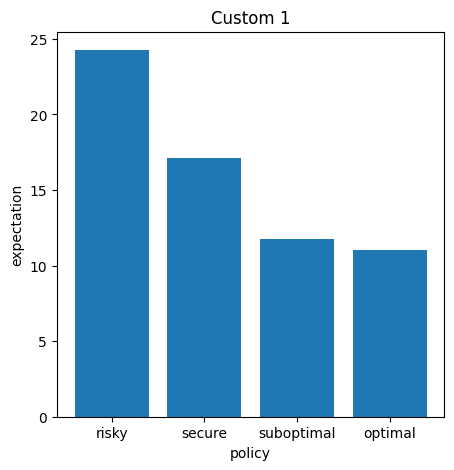
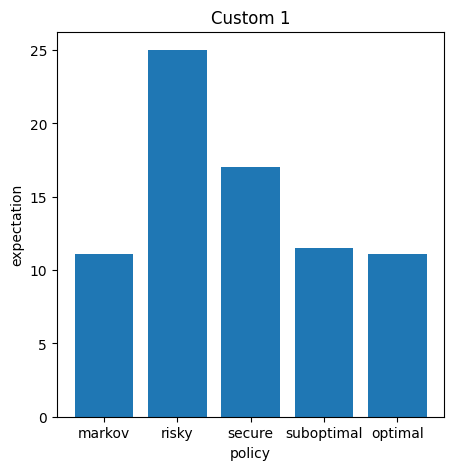
added plotting for empirical vs theoretical + created empirical mean for each state (not just initial state)

diff --git a/testbench.py b/testbench.py
@@ -14,7 +14,7 @@ from layouts import *
 #   2 for max verbose
 verbose = 1
 # number of iterations for empirical tests
-nb_iterations = 1e3
+nb_iterations = 1e5
 # filename to write results
 filename = "results.txt"
 # open file in write mode
@@ -35,7 +35,7 @@ def test_markov(layout, circle=False, name="markov", write_file=True) :
         print(f"    layout      : {' '.join(map(str, layout))}", file=f)
         print(f"    circle      : {circle}", file=f)
         print(f"    dice        : {' '.join(map(str, dice))}", file=f)
-        print(f"    expectation : {markov_exp[0]:>7.4f}", file=f)
+        print(f"    expectation : {' '.join(map(lambda x: format(x, '>7.4f'), markov_exp))}", file=f)
         print("", file=f)
 
     return markov_exp, dice
@@ -50,8 +50,8 @@ def test_empirical(layout, circle=False, expectation=None, policy=None, name="em
         print(f"    layout      : {' '.join(map(str, layout))}", file=f)
         print(f"    circle      : {circle}", file=f)
         print(f"    iterations  : {int(nb_iterations)}", file=f)
-        print(f"    dice        : {' '.join(map(str, dice))}", file=f)
-        print(f"    expectation : {empiric_exp:>7.4f}", file=f)
+        print(f"    dice        : {' '.join(map(str, dice))}" if dice is not None else "", file=f)
+        print(f"    expectation : {' '.join(map(lambda x: format(x, '>7.4f'), empiric_exp))}", file=f)
         print("", file=f)
 
     return empiric_exp, dice
@@ -62,10 +62,11 @@ def compare_models(layout, circle=False) :
     _, _ = test_empirical(layout, circle, markov_exp, markov_dice)
 
 
-def compare_policies(policies, layout, circle=False) :
+def compare_policies(policies, layout, circle=False, add_pure_random=False) :
     """compare different policies with one another and with the optimal policy"""
-    _, optimal_policy = test_markov(layout, circle, write_file=False)
+    _, optimal_policy = test_markov(layout, circle, write_file=True)
     policies.append(("optimal", optimal_policy))
+    if add_pure_random: policies.append(("pure random", None))
 
     # test for each policy
     for policy in policies:
@@ -79,8 +80,8 @@ def compare_policies(policies, layout, circle=False) :
         empiric_exp, _ = test_empirical(layout, circle, policy=dice, name=name)
         if verbose >= 1 : 
             print(f"\nName : {name}")
-            print(f"    expectation : {empiric_exp:>7.4f}")
-            print(f"    policy : {list(dice)}")
+            print(f"    expectation : {' '.join(map(lambda x: format(x, '>7.4f'), empiric_exp))}")
+            print(f"    policy : {list(dice)}" if dice is not None else f"    policy : pure random")
 
 # -----------------------------------------------------------------------------
 # Main
@@ -89,11 +90,12 @@ def compare_policies(policies, layout, circle=False) :
 if __name__ == '__main__':
     #compare_models(layout_custom2, False)
     #compare_models(layout_custom2, True)
+
     policies = strategies.get_policies(layout_custom1, True)
-    compare_policies(policies, layout_custom1, True)
+    compare_policies(policies, layout_custom1, True, add_pure_random=True)
     
     policies = strategies.get_policies(layout_custom2, True)
-    compare_policies(policies, layout_custom2, True)
+    compare_policies(policies, layout_custom2, True, add_pure_random=True)
 
     f.close()
 

diff --git a/snakes_and_ladders.py b/snakes_and_ladders.py
@@ -366,9 +366,12 @@ def test_markovDecision(layout, circle, name="", verbose=False):
 
 def test_empirically(layout, circle, expectation=None, policy=None, nb_iter=1e7, verbose=False):
     board = Board(layout, circle)
-    nb_rolls = np.zeros(int(nb_iter))
+    nb_rolls = np.zeros((int(nb_iter), len(board.layout)), dtype=float)
+    marked = np.zeros((int(nb_iter), len(board.layout)), dtype=bool)
     states = np.zeros(int(nb_iter), dtype=int)
     not_done = np.ones(int(nb_iter), dtype=bool)
+
+    marked[:, 0] = True
 
     if verbose:
         print(f"Simulating {int(nb_iter)} games with following"
@@ -377,6 +380,8 @@ def test_empirically(layout, circle, expectation=None, policy=None, nb_iter=1e7,
 
     while np.sum(not_done) != 0:
         states_left = states[not_done]
+        marked_left = marked[not_done]
+        nb_rolls_left = nb_rolls[not_done]
 
         dice = policy[states_left] if policy is not None else np.random.randint(SECURITY, RISKY+1, len(states_left))
 
@@ -386,19 +391,24 @@ def test_empirically(layout, circle, expectation=None, policy=None, nb_iter=1e7,
         new_states = board.apply_delta(states_left, nb_steps)
         new_states, extra_costs = board.apply_traps(new_states, trap_trigger)
 
-        nb_rolls[not_done] += 1. + extra_costs
+        nb_rolls_left[marked_left] += np.ones(np.sum(marked_left)) + np.repeat(extra_costs, np.sum(marked_left, axis=1))
+
+        marked_left[np.arange(len(marked_left)), new_states] = True
 
         states[not_done] = new_states
+        nb_rolls[not_done] = nb_rolls_left
+        marked[not_done] = marked_left
         not_done[states == len(board.layout) - 1] = False
-    
-    empiric_result = np.mean(nb_rolls)
+
+    nb_rolls = nb_rolls[:, :-1]
+    empiric_result = np.sum(nb_rolls, axis=0)/np.count_nonzero(nb_rolls, axis=0)
 
     if verbose:
         print( f"Expectation results : " +
               (f"\n   - Optimal (MDP) : {expectation[0]:>7.4f}" if expectation is not None else "") +
                f"\n   - Empiric       : {empiric_result:>7.4f} "
-               f"| σ = {np.std(nb_rolls):>7.4f} "
-               f"| [{np.min(nb_rolls)}, {np.max(nb_rolls)}]"
+               f"| σ = {np.std(nb_rolls[:, 0]):>7.4f} "
+               f"| [{np.min(nb_rolls[:, 0])}, {np.max(nb_rolls[:, 0])}]"
                f"\n")
         
     return empiric_result, policy

diff --git a/plots.py b/plots.py
@@ -49,7 +49,7 @@ with open(filename, 'r') as f :
             results[-1].policy_dice = list(map(int, map(float, line[2:])))
 
         elif line[0] == "expectation" :
-            results[-1].expectation = float(line[-1])
+            results[-1].expectation = list(map(float, line[2:]))
         
 # group by layout
 grouped = []
@@ -82,7 +82,7 @@ for group in grouped :
     expec = []
     for r in group :
         names.append(r.policy_name)
-        expec.append(r.expectation)
+        expec.append(r.expectation[0])
     # create bars
     plt.bar(names, expec)
     # labels and titles
@@ -91,3 +91,26 @@ for group in grouped :
     plt.ylabel("expectation")
     # save figure
     plt.savefig(f"plots/{title.replace(' ','')}", bbox_inches='tight')
+
+    # plotting empiric/theoric graph
+    # get names and expectation
+    plt.figure(figsize=(7, 5))
+    names = []
+    expec = []
+
+    X_axis = np.arange(1, len(r.layout))
+
+    for r in group:
+        if r.policy_name == 'markov':
+            plt.bar(X_axis - 0.2, r.expectation, 0.4, label='Theoretical')
+        elif r.policy_name == 'optimal':
+            plt.bar(X_axis + 0.2, r.expectation, 0.4, label='Empirical')
+
+    # labels and titles
+    title = f"{title} Empirical versus Theoretical"
+    plt.title(f"{title}")
+    plt.xlabel("State")
+    plt.ylabel("expectation")
+    plt.legend()
+    # save figure
+    plt.savefig(f"plots/{title.replace(' ', '')}", bbox_inches='tight')

diff --git a/strategies.py b/strategies.py
@@ -19,14 +19,18 @@ def strategy_template(layout : list, circle : bool) -> Tuple[str, list] :
     return "name", policy
 
 def risky(layout, circle) :
-    policy = np.ones(15, dtype=int) * RISKY
+    policy = np.ones(len(layout), dtype=int) * RISKY
 
     return "risky", policy
 
 def secure(layout, circle) :
-    policy = np.ones(15, dtype=int) * SECURITY
+    policy = np.ones(len(layout), dtype=int) * SECURITY
 
     return "secure", policy
+
+def random_policy(layout, circle) :
+    policy = np.random.randint(SECURITY, RISKY+1, len(layout), dtype=int)
+    return "random policy", policy
 
 def suboptimal(layout, circle):
     board = Board(layout, circle)
